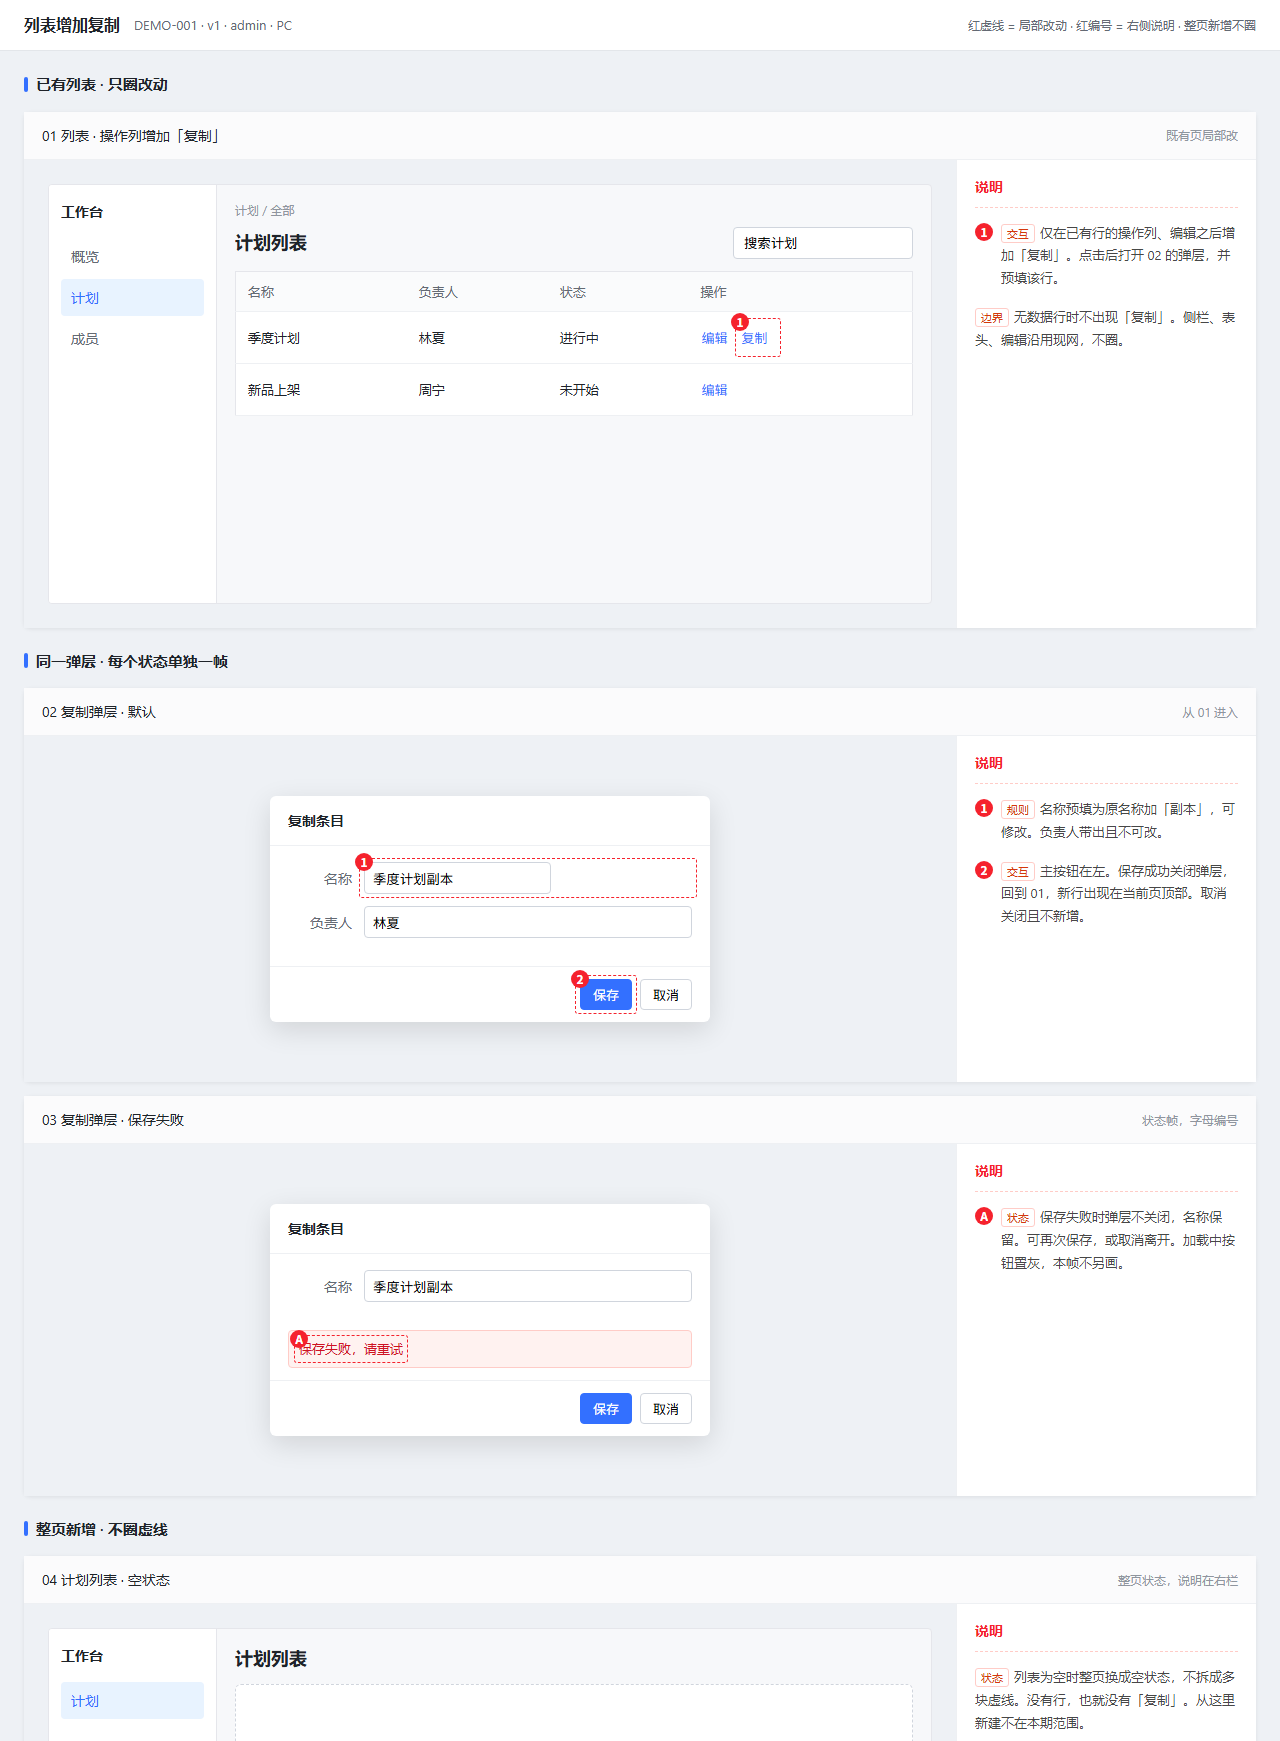
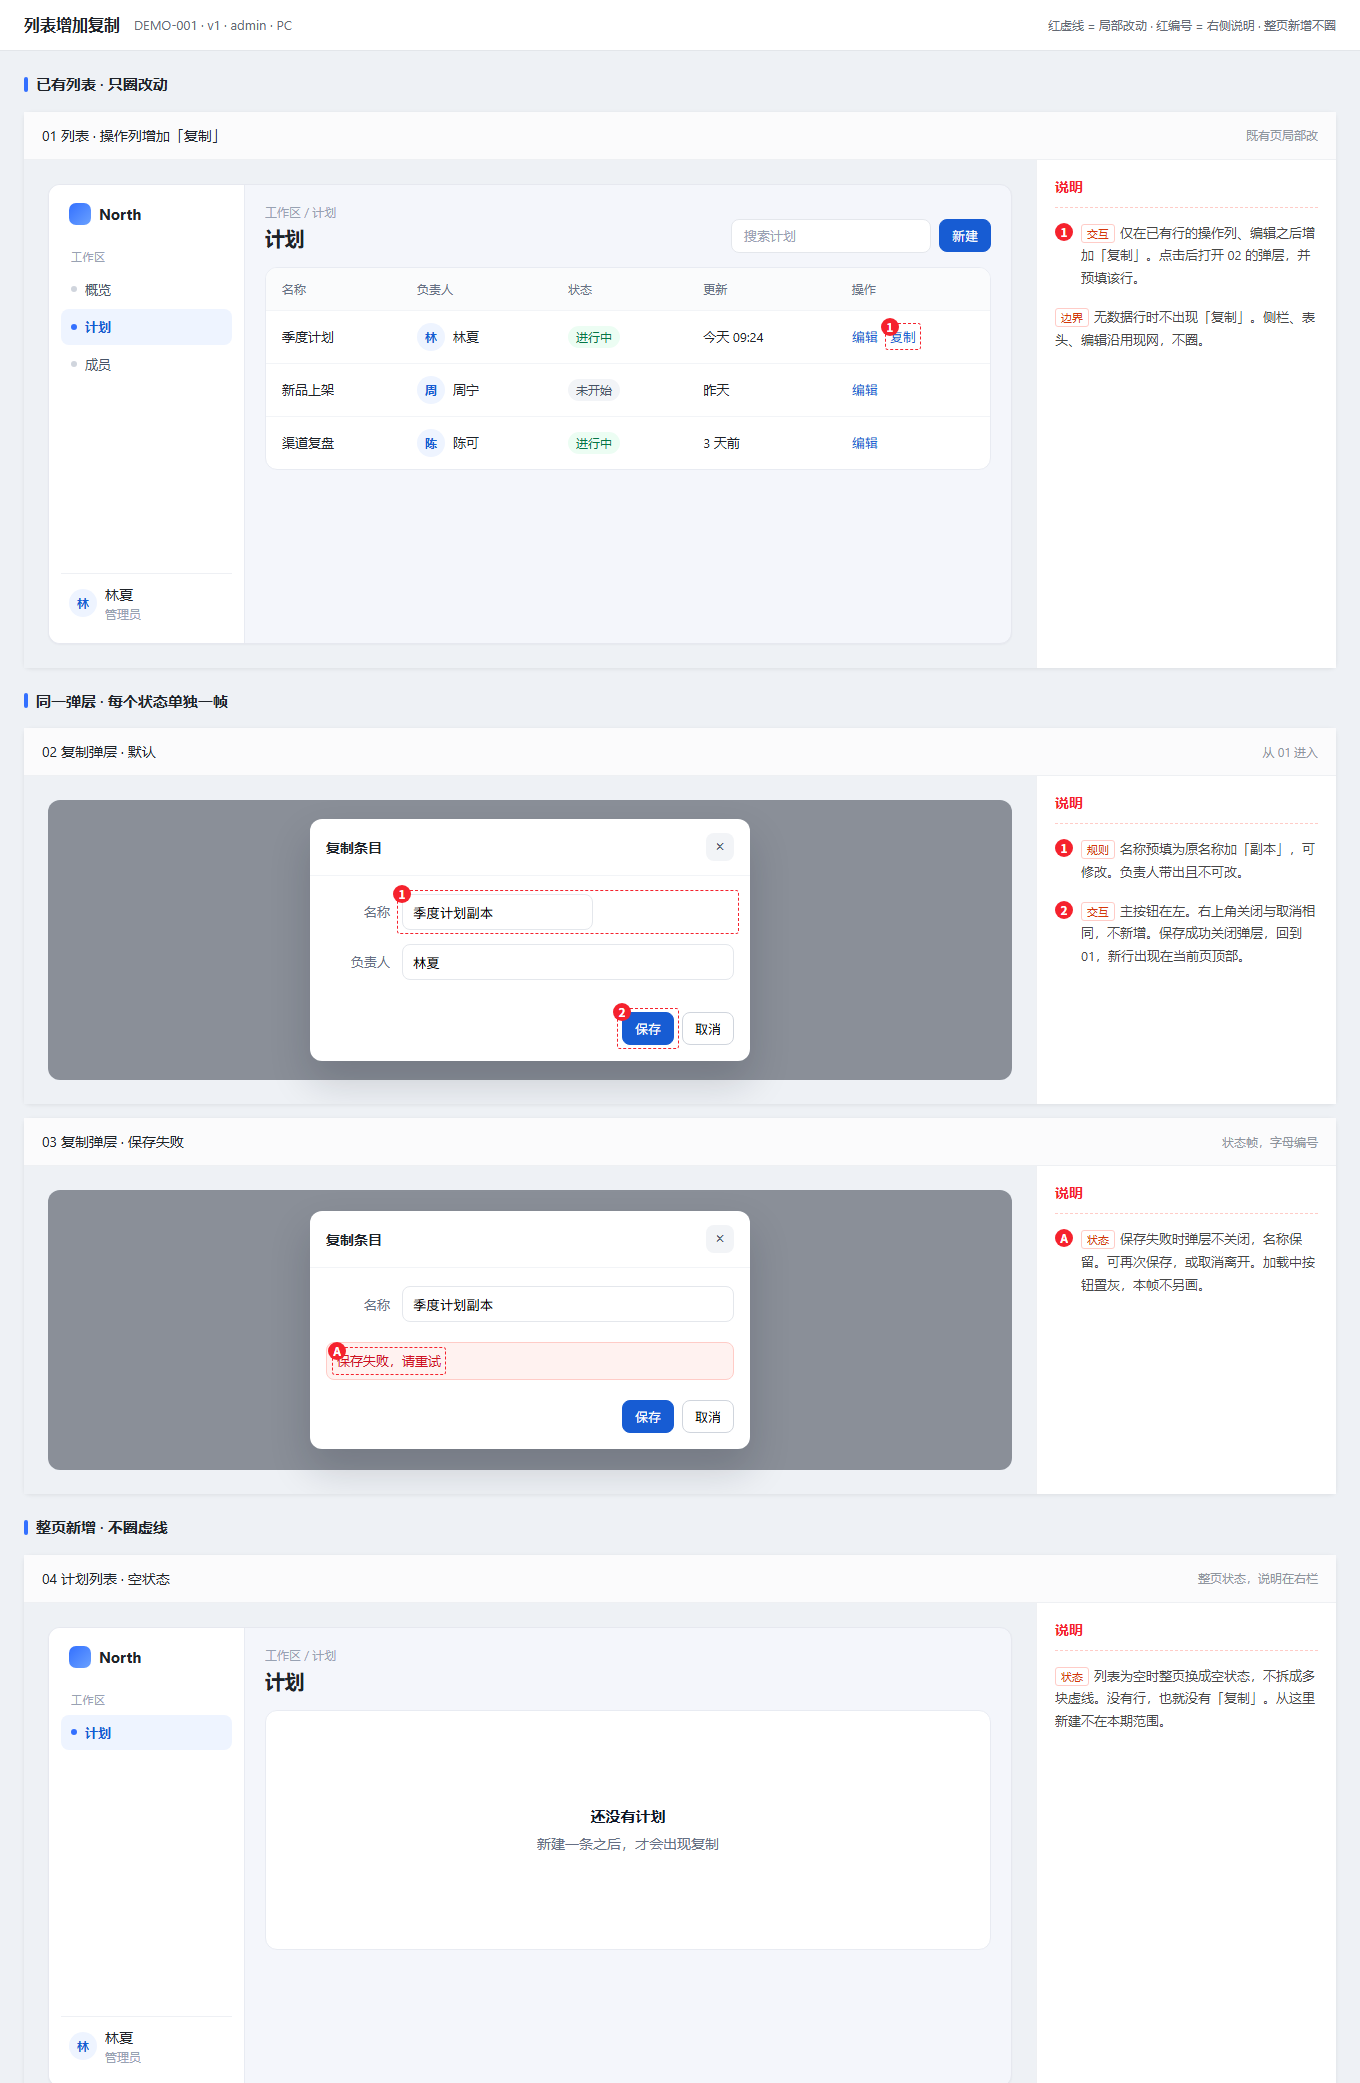
Polish the sample list into a SaaS admin and add dialog close buttons.

diff --git a/prototype-design/examples/demo-copy-action/prototype.html b/prototype-design/examples/demo-copy-action/prototype.html
@@ -26,32 +26,48 @@ body{ margin:0; background:#eef1f5; font:14px/1.5 -apple-system,"Segoe UI","Micr
 .proto-pin-tl{ position:absolute; top:-9px; left:-9px; z-index:7; }
 .proto-pin-tr{ position:absolute; top:-9px; right:-9px; z-index:7; }
 .note-item .proto-pin{ margin-top:1px; }
-.page{ display:flex; min-height:420px; background:#f7f8fa; border:1px solid #e5e6eb; border-radius:4px; overflow:hidden; }
-.side{ width:168px; background:#fff; border-right:1px solid #e5e6eb; padding:16px 12px; }
-.side .logo{ font-weight:600; margin-bottom:16px; }
-.side .item{ padding:8px 10px; border-radius:4px; color:#646a73; margin-bottom:4px; }
-.side .item.on{ background:#e8f3ff; color:#3370ff; }
-.main{ flex:1; padding:16px 18px 20px; }
-.crumb{ color:#8f959e; font-size:12px; margin-bottom:8px; }
-.toolbar{ display:flex; justify-content:space-between; align-items:center; margin-bottom:12px; }
-.toolbar h2{ margin:0; font-size:18px; }
-.search{ height:32px; border:1px solid #d0d5dd; border-radius:4px; padding:0 10px; width:180px; background:#fff; }
-table{ width:100%; border-collapse:collapse; background:#fff; border:1px solid #e5e6eb; border-radius:4px; }
-th,td{ text-align:left; padding:10px 12px; border-bottom:1px solid #eef0f3; font-size:13px; }
-th{ background:#fafbfc; color:#646a73; font-weight:500; }
-.btn{ border:1px solid #d0d5dd; background:#fff; border-radius:4px; padding:5px 12px; font-size:13px; }
-.btn.primary{ background:#3370ff; border-color:#3370ff; color:#fff; }
-.btn.ghost{ color:#3370ff; border-color:transparent; background:transparent; padding-left:0; padding-right:8px; }
-.modal-wrap{ min-height:260px; display:flex; align-items:flex-start; justify-content:center; padding:36px 0; }
-.modal{ width:440px; background:#fff; border-radius:6px; box-shadow:0 8px 28px rgba(0,0,0,.12); }
-.modal header{ padding:14px 18px; font-weight:600; border-bottom:1px solid #eef0f3; }
-.modal .body{ padding:16px 18px; }
-.field{ display:flex; gap:12px; align-items:center; margin-bottom:12px; }
-.field label{ width:64px; text-align:right; color:#646a73; }
-.field input{ flex:1; height:32px; border:1px solid #d0d5dd; border-radius:4px; padding:0 8px; }
-.footer{ display:flex; gap:8px; justify-content:flex-end; padding:12px 18px; border-top:1px solid #eef0f3; }
-.toast{ margin:0 18px 12px; background:#fff2f0; color:#cf1322; border:1px solid #ffccc7; border-radius:4px; padding:8px 10px; font-size:13px; }
-.empty{ background:#fff; border:1px dashed #d0d5dd; border-radius:6px; min-height:220px; display:flex; align-items:center; justify-content:center; color:#8f959e; }
+.app{ display:flex; min-height:460px; background:#f4f6fb; border:1px solid #e6e8ef; border-radius:12px; overflow:hidden; box-shadow:0 1px 2px rgba(16,24,40,.04); }
+.nav{ width:196px; background:#fff; border-right:1px solid #e8ebf2; padding:18px 12px; display:flex; flex-direction:column; }
+.brand{ display:flex; align-items:center; gap:8px; font-weight:650; font-size:15px; padding:0 8px 16px; }
+.mark{ width:22px; height:22px; border-radius:7px; background:linear-gradient(135deg,#3370ff,#6aa1ff); }
+.nav-label{ font-size:11px; color:#98a2b3; letter-spacing:.04em; padding:8px 10px 6px; }
+.nav-item{ display:flex; align-items:center; gap:8px; padding:8px 10px; border-radius:8px; color:#475467; margin-bottom:2px; font-size:13px; }
+.nav-item.on{ background:#eef4ff; color:#175cd3; font-weight:600; }
+.dot{ width:6px; height:6px; border-radius:50%; background:#d0d5dd; }
+.nav-item.on .dot{ background:#3370ff; }
+.nav-user{ margin-top:auto; display:flex; gap:8px; align-items:center; padding:10px 8px 2px; border-top:1px solid #eef0f4; }
+.avatar{ width:28px; height:28px; border-radius:50%; background:#eef4ff; color:#175cd3; display:inline-flex; align-items:center; justify-content:center; font-size:12px; font-weight:600; }
+.nav-user em{ display:block; font-style:normal; color:#98a2b3; font-size:12px; }
+.content{ flex:1; padding:18px 20px 22px; }
+.topbar{ display:flex; justify-content:space-between; align-items:flex-end; margin-bottom:14px; }
+.crumb{ color:#98a2b3; font-size:12px; margin-bottom:2px; }
+.topbar h2{ margin:0; font-size:20px; font-weight:650; letter-spacing:-.02em; }
+.top-actions{ display:flex; gap:8px; align-items:center; }
+.search{ height:34px; border:1px solid #e4e7ec; border-radius:8px; padding:0 12px; width:200px; background:#fff; color:#98a2b3; display:flex; align-items:center; font-size:13px; }
+.card{ background:#fff; border:1px solid #e8ebf2; border-radius:12px; overflow:hidden; }
+table{ width:100%; border-collapse:collapse; }
+th,td{ text-align:left; padding:12px 16px; border-bottom:1px solid #f2f4f7; font-size:13px; }
+th{ background:#fafbfc; color:#667085; font-weight:500; font-size:12px; }
+tr:last-child td{ border-bottom:0; }
+.who{ display:flex; align-items:center; gap:8px; }
+.pill{ display:inline-flex; align-items:center; height:22px; padding:0 8px; border-radius:999px; font-size:12px; background:#f2f4f7; color:#475467; }
+.pill.go{ background:#ecfdf3; color:#067647; }
+.ops{ display:flex; gap:12px; align-items:center; }
+.link{ border:0; background:transparent; color:#175cd3; padding:0; font-size:13px; }
+.btn{ border:1px solid #d0d5dd; background:#fff; border-radius:8px; padding:6px 12px; font-size:13px; }
+.btn.primary{ background:#175cd3; border-color:#175cd3; color:#fff; }
+.modal-wrap{ min-height:280px; display:flex; align-items:center; justify-content:center; background:rgba(16,24,40,.45); border-radius:12px; }
+.modal{ width:440px; background:#fff; border-radius:12px; box-shadow:0 20px 40px rgba(16,24,40,.18); }
+.modal header{ display:flex; align-items:center; justify-content:space-between; padding:14px 16px; font-weight:650; border-bottom:1px solid #f2f4f7; }
+.x{ width:28px; height:28px; border:0; border-radius:8px; background:#f2f4f7; color:#475467; font-size:16px; line-height:1; }
+.modal .body{ padding:18px 16px 6px; }
+.field{ display:flex; gap:12px; align-items:center; margin-bottom:14px; }
+.field label{ width:64px; text-align:right; color:#667085; font-size:13px; }
+.field input{ flex:1; height:36px; border:1px solid #e4e7ec; border-radius:8px; padding:0 10px; }
+.footer{ display:flex; gap:8px; justify-content:flex-end; padding:12px 16px 16px; }
+.toast{ margin:0 16px 8px; background:#fff2f0; color:#cf1322; border:1px solid #ffccc7; border-radius:8px; padding:8px 10px; font-size:13px; }
+.empty{ background:#fff; border:1px solid #e8ebf2; border-radius:12px; min-height:240px; display:flex; flex-direction:column; align-items:center; justify-content:center; gap:6px; color:#667085; }
+.empty b{ color:#101828; font-size:15px; }
 .foot-space{ height:28px; }
 </style>
 </head>
@@ -72,35 +88,62 @@ th{ background:#fafbfc; color:#646a73; font-weight:500; }
   </div>
   <div class="proto-layout">
     <div class="proto-stage">
-      <div class="page">
-        <aside class="side">
-          <div class="logo">工作台</div>
-          <div class="item">概览</div>
-          <div class="item on">计划</div>
-          <div class="item">成员</div>
+      <div class="app">
+        <aside class="nav">
+          <div class="brand"><span class="mark"></span> North</div>
+          <div class="nav-label">工作区</div>
+          <div class="nav-item"><span class="dot"></span>概览</div>
+          <div class="nav-item on"><span class="dot"></span>计划</div>
+          <div class="nav-item"><span class="dot"></span>成员</div>
+          <div class="nav-user"><span class="avatar">林</span><span>林夏<em>管理员</em></span></div>
         </aside>
-        <div class="main">
-          <div class="crumb">计划 / 全部</div>
-          <div class="toolbar">
-            <h2>计划列表</h2>
-            <input class="search" value="搜索计划" readonly>
+        <div class="content">
+          <div class="topbar">
+            <div>
+              <div class="crumb">工作区 / 计划</div>
+              <h2>计划</h2>
+            </div>
+            <div class="top-actions">
+              <div class="search">搜索计划</div>
+              <button class="btn primary" type="button">新建</button>
+            </div>
           </div>
-          <table>
-            <thead><tr><th>名称</th><th>负责人</th><th>状态</th><th>操作</th></tr></thead>
-            <tbody>
-              <tr>
-                <td>季度计划</td><td>林夏</td><td>进行中</td>
-                <td>
-                  <button class="btn ghost" type="button">编辑</button>
-                  <span class="proto-dash" style="display:inline-block;position:relative">
-                    <span class="proto-pin proto-pin-tl">1</span>
-                    <button class="btn ghost" type="button">复制</button>
-                  </span>
-                </td>
-              </tr>
-              <tr><td>新品上架</td><td>周宁</td><td>未开始</td><td><button class="btn ghost" type="button">编辑</button></td></tr>
-            </tbody>
-          </table>
+          <div class="card">
+            <table>
+              <thead><tr><th>名称</th><th>负责人</th><th>状态</th><th>更新</th><th>操作</th></tr></thead>
+              <tbody>
+                <tr>
+                  <td>季度计划</td>
+                  <td><span class="who"><span class="avatar">林</span>林夏</span></td>
+                  <td><span class="pill go">进行中</span></td>
+                  <td>今天 09:24</td>
+                  <td>
+                    <div class="ops">
+                      <button class="link" type="button">编辑</button>
+                      <span class="proto-dash" style="display:inline-block;position:relative">
+                        <span class="proto-pin proto-pin-tl">1</span>
+                        <button class="link" type="button">复制</button>
+                      </span>
+                    </div>
+                  </td>
+                </tr>
+                <tr>
+                  <td>新品上架</td>
+                  <td><span class="who"><span class="avatar">周</span>周宁</span></td>
+                  <td><span class="pill">未开始</span></td>
+                  <td>昨天</td>
+                  <td><button class="link" type="button">编辑</button></td>
+                </tr>
+                <tr>
+                  <td>渠道复盘</td>
+                  <td><span class="who"><span class="avatar">陈</span>陈可</span></td>
+                  <td><span class="pill go">进行中</span></td>
+                  <td>3 天前</td>
+                  <td><button class="link" type="button">编辑</button></td>
+                </tr>
+              </tbody>
+            </table>
+          </div>
         </div>
       </div>
     </div>
@@ -128,7 +171,7 @@ th{ background:#fafbfc; color:#646a73; font-weight:500; }
     <div class="proto-stage">
       <div class="modal-wrap">
         <div class="modal">
-          <header>复制条目</header>
+          <header>复制条目<button class="x" type="button" aria-label="关闭">×</button></header>
           <div class="body">
             <div class="field">
               <label>名称</label>
@@ -160,7 +203,7 @@ th{ background:#fafbfc; color:#646a73; font-weight:500; }
       </div>
       <div class="note-item">
         <span class="proto-pin">2</span>
-        <div><span class="note-typ">交互</span>主按钮在左。保存成功关闭弹层，回到 01，新行出现在当前页顶部。取消关闭且不新增。</div>
+        <div><span class="note-typ">交互</span>主按钮在左。右上角关闭与取消相同，不新增。保存成功关闭弹层，回到 01，新行出现在当前页顶部。</div>
       </div>
     </aside>
   </div>
@@ -175,7 +218,7 @@ th{ background:#fafbfc; color:#646a73; font-weight:500; }
     <div class="proto-stage">
       <div class="modal-wrap">
         <div class="modal">
-          <header>复制条目</header>
+          <header>复制条目<button class="x" type="button" aria-label="关闭">×</button></header>
           <div class="body">
             <div class="field">
               <label>名称</label>
@@ -214,14 +257,18 @@ th{ background:#fafbfc; color:#646a73; font-weight:500; }
   </div>
   <div class="proto-layout">
     <div class="proto-stage">
-      <div class="page">
-        <aside class="side">
-          <div class="logo">工作台</div>
-          <div class="item on">计划</div>
+      <div class="app">
+        <aside class="nav">
+          <div class="brand"><span class="mark"></span> North</div>
+          <div class="nav-label">工作区</div>
+          <div class="nav-item on"><span class="dot"></span>计划</div>
+          <div class="nav-user"><span class="avatar">林</span><span>林夏<em>管理员</em></span></div>
         </aside>
-        <div class="main">
-          <div class="toolbar"><h2>计划列表</h2></div>
-          <div class="empty">暂无计划</div>
+        <div class="content">
+          <div class="topbar">
+            <div><div class="crumb">工作区 / 计划</div><h2>计划</h2></div>
+          </div>
+          <div class="empty"><b>还没有计划</b><span>新建一条之后，才会出现复制</span></div>
         </div>
       </div>
     </div>
